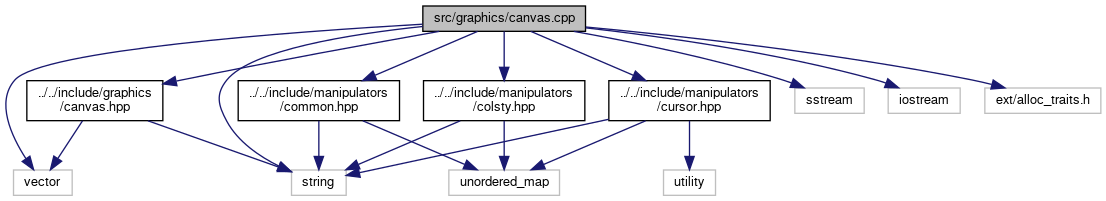
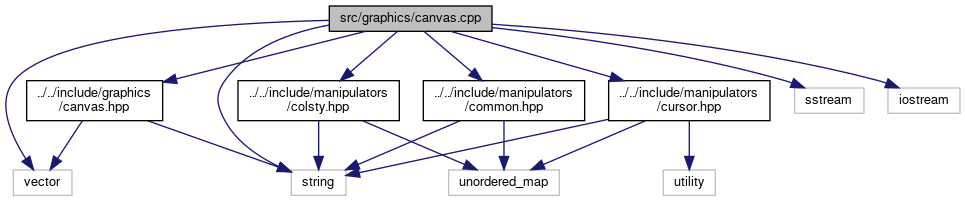
Update docs

diff --git a/docs/canvas_8hpp_source.html b/docs/canvas_8hpp_source.html
@@ -174,25 +174,25 @@ $(function() {
 <div class="line"><a name="l00115"></a><span class="lineno">  115</span>&#160; </div>
 <div class="line"><a name="l00116"></a><span class="lineno">  116</span>&#160;<span class="preprocessor">#endif</span></div>
 <div class="ttc" id="aclassosm_1_1Canvas_html"><div class="ttname"><a href="classosm_1_1Canvas.html">osm::Canvas</a></div><div class="ttdoc">Instances of this class are used to draw in a limited 2D space. All the functions that modify the can...</div><div class="ttdef"><b>Definition:</b> canvas.hpp:53</div></div>
-<div class="ttc" id="aclassosm_1_1Canvas_html_a1505bf52113de81e87ba3f69d5c2a188"><div class="ttname"><a href="classosm_1_1Canvas.html#a1505bf52113de81e87ba3f69d5c2a188">osm::Canvas::clear</a></div><div class="ttdeci">void clear()</div><div class="ttdoc">Fill the canvas with the background.</div><div class="ttdef"><b>Definition:</b> canvas.cpp:205</div></div>
-<div class="ttc" id="aclassosm_1_1Canvas_html_a160b7ab568f9d747342fbc3665693328"><div class="ttname"><a href="classosm_1_1Canvas.html#a160b7ab568f9d747342fbc3665693328">osm::Canvas::getWidth</a></div><div class="ttdeci">unsigned int getWidth() const</div><div class="ttdoc">Get the width of the canvas.</div><div class="ttdef"><b>Definition:</b> canvas.cpp:115</div></div>
-<div class="ttc" id="aclassosm_1_1Canvas_html_a1ee33493bd60a97fa187a5459ed0b03d"><div class="ttname"><a href="classosm_1_1Canvas.html#a1ee33493bd60a97fa187a5459ed0b03d">osm::Canvas::getBackgroundFeat</a></div><div class="ttdeci">std::string getBackgroundFeat() const</div><div class="ttdoc">Get the optional feat of the background.</div><div class="ttdef"><b>Definition:</b> canvas.cpp:148</div></div>
-<div class="ttc" id="aclassosm_1_1Canvas_html_a480b5c831444690c33c431e49b8c5f7b"><div class="ttname"><a href="classosm_1_1Canvas.html#a480b5c831444690c33c431e49b8c5f7b">osm::Canvas::getFrameFeat</a></div><div class="ttdeci">std::string getFrameFeat() const</div><div class="ttdoc">Get the frame feature (if set).</div><div class="ttdef"><b>Definition:</b> canvas.cpp:159</div></div>
-<div class="ttc" id="aclassosm_1_1Canvas_html_a490058618fdbfae70ad9ccdbe714ed2d"><div class="ttname"><a href="classosm_1_1Canvas.html#a490058618fdbfae70ad9ccdbe714ed2d">osm::Canvas::put</a></div><div class="ttdeci">void put(unsigned int x, unsigned int y, char c, const std::string &amp;feat=&quot;&quot;)</div><div class="ttdoc">Put a character in the canvas, given its coordinates and an optional feat. An out-of-bounds exception...</div><div class="ttdef"><b>Definition:</b> canvas.cpp:220</div></div>
-<div class="ttc" id="aclassosm_1_1Canvas_html_a5a93403f14648c98a13050adfabc6e73"><div class="ttname"><a href="classosm_1_1Canvas.html#a5a93403f14648c98a13050adfabc6e73">osm::Canvas::setFrame</a></div><div class="ttdeci">void setFrame(FrameStyle, const std::string &amp;feat=&quot;&quot;)</div><div class="ttdoc">Set the FrameStyle of the canvas and an optional feat.</div><div class="ttdef"><b>Definition:</b> canvas.cpp:75</div></div>
-<div class="ttc" id="aclassosm_1_1Canvas_html_a74a7d22b68e900010b2c5cdc530351b8"><div class="ttname"><a href="classosm_1_1Canvas.html#a74a7d22b68e900010b2c5cdc530351b8">osm::Canvas::getHeight</a></div><div class="ttdeci">unsigned int getHeight() const</div><div class="ttdoc">Get the height of the canvas.</div><div class="ttdef"><b>Definition:</b> canvas.cpp:126</div></div>
-<div class="ttc" id="aclassosm_1_1Canvas_html_a7bd6a767d15497e639e9c768a0a5fe23"><div class="ttname"><a href="classosm_1_1Canvas.html#a7bd6a767d15497e639e9c768a0a5fe23">osm::Canvas::isFrameEnabled</a></div><div class="ttdeci">bool isFrameEnabled() const</div><div class="ttdoc">Return True if the frame is enabled. Otherwise return False.</div><div class="ttdef"><b>Definition:</b> canvas.cpp:196</div></div>
+<div class="ttc" id="aclassosm_1_1Canvas_html_a1505bf52113de81e87ba3f69d5c2a188"><div class="ttname"><a href="classosm_1_1Canvas.html#a1505bf52113de81e87ba3f69d5c2a188">osm::Canvas::clear</a></div><div class="ttdeci">void clear()</div><div class="ttdoc">Fill the canvas with the background.</div><div class="ttdef"><b>Definition:</b> canvas.cpp:204</div></div>
+<div class="ttc" id="aclassosm_1_1Canvas_html_a160b7ab568f9d747342fbc3665693328"><div class="ttname"><a href="classosm_1_1Canvas.html#a160b7ab568f9d747342fbc3665693328">osm::Canvas::getWidth</a></div><div class="ttdeci">unsigned int getWidth() const</div><div class="ttdoc">Get the width of the canvas.</div><div class="ttdef"><b>Definition:</b> canvas.cpp:114</div></div>
+<div class="ttc" id="aclassosm_1_1Canvas_html_a1ee33493bd60a97fa187a5459ed0b03d"><div class="ttname"><a href="classosm_1_1Canvas.html#a1ee33493bd60a97fa187a5459ed0b03d">osm::Canvas::getBackgroundFeat</a></div><div class="ttdeci">std::string getBackgroundFeat() const</div><div class="ttdoc">Get the optional feat of the background.</div><div class="ttdef"><b>Definition:</b> canvas.cpp:147</div></div>
+<div class="ttc" id="aclassosm_1_1Canvas_html_a480b5c831444690c33c431e49b8c5f7b"><div class="ttname"><a href="classosm_1_1Canvas.html#a480b5c831444690c33c431e49b8c5f7b">osm::Canvas::getFrameFeat</a></div><div class="ttdeci">std::string getFrameFeat() const</div><div class="ttdoc">Get the frame feature (if set).</div><div class="ttdef"><b>Definition:</b> canvas.cpp:158</div></div>
+<div class="ttc" id="aclassosm_1_1Canvas_html_a490058618fdbfae70ad9ccdbe714ed2d"><div class="ttname"><a href="classosm_1_1Canvas.html#a490058618fdbfae70ad9ccdbe714ed2d">osm::Canvas::put</a></div><div class="ttdeci">void put(unsigned int x, unsigned int y, char c, const std::string &amp;feat=&quot;&quot;)</div><div class="ttdoc">Put a character in the canvas, given its coordinates and an optional feat. An out-of-bounds exception...</div><div class="ttdef"><b>Definition:</b> canvas.cpp:219</div></div>
+<div class="ttc" id="aclassosm_1_1Canvas_html_a5a93403f14648c98a13050adfabc6e73"><div class="ttname"><a href="classosm_1_1Canvas.html#a5a93403f14648c98a13050adfabc6e73">osm::Canvas::setFrame</a></div><div class="ttdeci">void setFrame(FrameStyle, const std::string &amp;feat=&quot;&quot;)</div><div class="ttdoc">Set the FrameStyle of the canvas and an optional feat.</div><div class="ttdef"><b>Definition:</b> canvas.cpp:74</div></div>
+<div class="ttc" id="aclassosm_1_1Canvas_html_a74a7d22b68e900010b2c5cdc530351b8"><div class="ttname"><a href="classosm_1_1Canvas.html#a74a7d22b68e900010b2c5cdc530351b8">osm::Canvas::getHeight</a></div><div class="ttdeci">unsigned int getHeight() const</div><div class="ttdoc">Get the height of the canvas.</div><div class="ttdef"><b>Definition:</b> canvas.cpp:125</div></div>
+<div class="ttc" id="aclassosm_1_1Canvas_html_a7bd6a767d15497e639e9c768a0a5fe23"><div class="ttname"><a href="classosm_1_1Canvas.html#a7bd6a767d15497e639e9c768a0a5fe23">osm::Canvas::isFrameEnabled</a></div><div class="ttdeci">bool isFrameEnabled() const</div><div class="ttdoc">Return True if the frame is enabled. Otherwise return False.</div><div class="ttdef"><b>Definition:</b> canvas.cpp:195</div></div>
 <div class="ttc" id="aclassosm_1_1Canvas_html_a913ed31d4d9273929d5c743c708a655f"><div class="ttname"><a href="classosm_1_1Canvas.html#a913ed31d4d9273929d5c743c708a655f">osm::Canvas::height_</a></div><div class="ttdeci">unsigned int height_</div><div class="ttdef"><b>Definition:</b> canvas.hpp:112</div></div>
-<div class="ttc" id="aclassosm_1_1Canvas_html_a95044b9f98d159e46b37d337ec05ae1d"><div class="ttname"><a href="classosm_1_1Canvas.html#a95044b9f98d159e46b37d337ec05ae1d">osm::Canvas::enableFrame</a></div><div class="ttdeci">void enableFrame(bool frame_enabled)</div><div class="ttdoc">Flag to frame or not the canvas. The frame doesn't increase the size taken by the canvas....</div><div class="ttdef"><b>Definition:</b> canvas.cpp:185</div></div>
-<div class="ttc" id="aclassosm_1_1Canvas_html_a9c13a2253b8f966713a43193ec9d02d4"><div class="ttname"><a href="classosm_1_1Canvas.html#a9c13a2253b8f966713a43193ec9d02d4">osm::Canvas::getBackground</a></div><div class="ttdeci">char getBackground() const</div><div class="ttdoc">Get the char that fills the background.</div><div class="ttdef"><b>Definition:</b> canvas.cpp:137</div></div>
-<div class="ttc" id="aclassosm_1_1Canvas_html_aac79ef1ec3e0b734cd8119d261073bfb"><div class="ttname"><a href="classosm_1_1Canvas.html#aac79ef1ec3e0b734cd8119d261073bfb">osm::Canvas::getFrameStyle</a></div><div class="ttdeci">FrameStyle getFrameStyle() const</div><div class="ttdoc">Get the frame style.</div><div class="ttdef"><b>Definition:</b> canvas.cpp:170</div></div>
-<div class="ttc" id="aclassosm_1_1Canvas_html_abce191d8ced93b66b6c419fa25e1ba0c"><div class="ttname"><a href="classosm_1_1Canvas.html#abce191d8ced93b66b6c419fa25e1ba0c">osm::Canvas::Canvas</a></div><div class="ttdeci">Canvas(unsigned int width, unsigned int height)</div><div class="ttdoc">Construct a new Canvas:: Canvas object. The size of the canvas in characters must be specified upon c...</div><div class="ttdef"><b>Definition:</b> canvas.cpp:41</div></div>
-<div class="ttc" id="aclassosm_1_1Canvas_html_ac097db26c317351fe292ae23484051c2"><div class="ttname"><a href="classosm_1_1Canvas.html#ac097db26c317351fe292ae23484051c2">osm::Canvas::setWidth</a></div><div class="ttdeci">void setWidth(unsigned int width)</div><div class="ttdoc">Set the width of the canvas.</div><div class="ttdef"><b>Definition:</b> canvas.cpp:87</div></div>
-<div class="ttc" id="aclassosm_1_1Canvas_html_ad4691efdc35f471f6b540b9b82ff8a47"><div class="ttname"><a href="classosm_1_1Canvas.html#ad4691efdc35f471f6b540b9b82ff8a47">osm::Canvas::refresh</a></div><div class="ttdeci">void refresh()</div><div class="ttdoc">Display the canvas in the console.</div><div class="ttdef"><b>Definition:</b> canvas.cpp:230</div></div>
+<div class="ttc" id="aclassosm_1_1Canvas_html_a95044b9f98d159e46b37d337ec05ae1d"><div class="ttname"><a href="classosm_1_1Canvas.html#a95044b9f98d159e46b37d337ec05ae1d">osm::Canvas::enableFrame</a></div><div class="ttdeci">void enableFrame(bool frame_enabled)</div><div class="ttdoc">Flag to frame or not the canvas. The frame doesn't increase the size taken by the canvas....</div><div class="ttdef"><b>Definition:</b> canvas.cpp:184</div></div>
+<div class="ttc" id="aclassosm_1_1Canvas_html_a9c13a2253b8f966713a43193ec9d02d4"><div class="ttname"><a href="classosm_1_1Canvas.html#a9c13a2253b8f966713a43193ec9d02d4">osm::Canvas::getBackground</a></div><div class="ttdeci">char getBackground() const</div><div class="ttdoc">Get the char that fills the background.</div><div class="ttdef"><b>Definition:</b> canvas.cpp:136</div></div>
+<div class="ttc" id="aclassosm_1_1Canvas_html_aac79ef1ec3e0b734cd8119d261073bfb"><div class="ttname"><a href="classosm_1_1Canvas.html#aac79ef1ec3e0b734cd8119d261073bfb">osm::Canvas::getFrameStyle</a></div><div class="ttdeci">FrameStyle getFrameStyle() const</div><div class="ttdoc">Get the frame style.</div><div class="ttdef"><b>Definition:</b> canvas.cpp:169</div></div>
+<div class="ttc" id="aclassosm_1_1Canvas_html_abce191d8ced93b66b6c419fa25e1ba0c"><div class="ttname"><a href="classosm_1_1Canvas.html#abce191d8ced93b66b6c419fa25e1ba0c">osm::Canvas::Canvas</a></div><div class="ttdeci">Canvas(unsigned int width, unsigned int height)</div><div class="ttdoc">Construct a new Canvas:: Canvas object. The size of the canvas in characters must be specified upon c...</div><div class="ttdef"><b>Definition:</b> canvas.cpp:40</div></div>
+<div class="ttc" id="aclassosm_1_1Canvas_html_ac097db26c317351fe292ae23484051c2"><div class="ttname"><a href="classosm_1_1Canvas.html#ac097db26c317351fe292ae23484051c2">osm::Canvas::setWidth</a></div><div class="ttdeci">void setWidth(unsigned int width)</div><div class="ttdoc">Set the width of the canvas.</div><div class="ttdef"><b>Definition:</b> canvas.cpp:86</div></div>
+<div class="ttc" id="aclassosm_1_1Canvas_html_ad4691efdc35f471f6b540b9b82ff8a47"><div class="ttname"><a href="classosm_1_1Canvas.html#ad4691efdc35f471f6b540b9b82ff8a47">osm::Canvas::refresh</a></div><div class="ttdeci">void refresh()</div><div class="ttdoc">Display the canvas in the console.</div><div class="ttdef"><b>Definition:</b> canvas.cpp:229</div></div>
 <div class="ttc" id="aclassosm_1_1Canvas_html_ad8f6fc9357a937cba09c8be48007e220"><div class="ttname"><a href="classosm_1_1Canvas.html#ad8f6fc9357a937cba09c8be48007e220">osm::Canvas::width_</a></div><div class="ttdeci">unsigned int width_</div><div class="ttdef"><b>Definition:</b> canvas.hpp:112</div></div>
-<div class="ttc" id="aclassosm_1_1Canvas_html_ad9597694bff029c0743c80b532f2dd8b"><div class="ttname"><a href="classosm_1_1Canvas.html#ad9597694bff029c0743c80b532f2dd8b">osm::Canvas::setHeight</a></div><div class="ttdeci">void setHeight(unsigned int height)</div><div class="ttdoc">Set the height of the canvas.</div><div class="ttdef"><b>Definition:</b> canvas.cpp:99</div></div>
-<div class="ttc" id="aclassosm_1_1Canvas_html_adc7706435633a346f755a9d23ca009ca"><div class="ttname"><a href="classosm_1_1Canvas.html#adc7706435633a346f755a9d23ca009ca">osm::Canvas::setBackground</a></div><div class="ttdeci">void setBackground(char c, const std::string &amp;feat=&quot;&quot;)</div><div class="ttdoc">Set the char that fills the background and an optional feat.</div><div class="ttdef"><b>Definition:</b> canvas.cpp:58</div></div>
-<div class="ttc" id="anamespaceosm_html"><div class="ttname"><a href="namespaceosm.html">osm</a></div><div class="ttdef"><b>Definition:</b> canvas.cpp:29</div></div>
+<div class="ttc" id="aclassosm_1_1Canvas_html_ad9597694bff029c0743c80b532f2dd8b"><div class="ttname"><a href="classosm_1_1Canvas.html#ad9597694bff029c0743c80b532f2dd8b">osm::Canvas::setHeight</a></div><div class="ttdeci">void setHeight(unsigned int height)</div><div class="ttdoc">Set the height of the canvas.</div><div class="ttdef"><b>Definition:</b> canvas.cpp:98</div></div>
+<div class="ttc" id="aclassosm_1_1Canvas_html_adc7706435633a346f755a9d23ca009ca"><div class="ttname"><a href="classosm_1_1Canvas.html#adc7706435633a346f755a9d23ca009ca">osm::Canvas::setBackground</a></div><div class="ttdeci">void setBackground(char c, const std::string &amp;feat=&quot;&quot;)</div><div class="ttdoc">Set the char that fills the background and an optional feat.</div><div class="ttdef"><b>Definition:</b> canvas.cpp:57</div></div>
+<div class="ttc" id="anamespaceosm_html"><div class="ttname"><a href="namespaceosm.html">osm</a></div><div class="ttdef"><b>Definition:</b> canvas.cpp:28</div></div>
 <div class="ttc" id="anamespaceosm_html_a8764c3774efea820941d8dc1fed23e39"><div class="ttname"><a href="namespaceosm.html#a8764c3774efea820941d8dc1fed23e39">osm::FrameStyle</a></div><div class="ttdeci">FrameStyle</div><div class="ttdoc">Enum class used to define the frame style.</div><div class="ttdef"><b>Definition:</b> canvas.hpp:37</div></div>
 <div class="ttc" id="anamespaceosm_html_a8764c3774efea820941d8dc1fed23e39a61ce815d946c1f4d84feaf7aff3ba9b9"><div class="ttname"><a href="namespaceosm.html#a8764c3774efea820941d8dc1fed23e39a61ce815d946c1f4d84feaf7aff3ba9b9">osm::ASCII</a></div><div class="ttdeci">@ ASCII</div><div class="ttdef"><b>Definition:</b> canvas.hpp:39</div></div>
 <div class="ttc" id="anamespaceosm_html_a8764c3774efea820941d8dc1fed23e39ab9dcdd42eb8789ebcd94e7e083d08f9c"><div class="ttname"><a href="namespaceosm.html#a8764c3774efea820941d8dc1fed23e39ab9dcdd42eb8789ebcd94e7e083d08f9c">osm::EMPTY</a></div><div class="ttdeci">@ EMPTY</div><div class="ttdef"><b>Definition:</b> canvas.hpp:38</div></div>

diff --git a/docs/plot__2D_8hpp_source.html b/docs/plot__2D_8hpp_source.html
@@ -151,7 +151,7 @@ $(function() {
 <div class="line"><a name="l00098"></a><span class="lineno">   98</span>&#160; </div>
 <div class="line"><a name="l00099"></a><span class="lineno">   99</span>&#160;<span class="preprocessor">#endif</span></div>
 <div class="ttc" id="aclassosm_1_1Canvas_html"><div class="ttname"><a href="classosm_1_1Canvas.html">osm::Canvas</a></div><div class="ttdoc">Instances of this class are used to draw in a limited 2D space. All the functions that modify the can...</div><div class="ttdef"><b>Definition:</b> canvas.hpp:53</div></div>
-<div class="ttc" id="aclassosm_1_1Canvas_html_a490058618fdbfae70ad9ccdbe714ed2d"><div class="ttname"><a href="classosm_1_1Canvas.html#a490058618fdbfae70ad9ccdbe714ed2d">osm::Canvas::put</a></div><div class="ttdeci">void put(unsigned int x, unsigned int y, char c, const std::string &amp;feat=&quot;&quot;)</div><div class="ttdoc">Put a character in the canvas, given its coordinates and an optional feat. An out-of-bounds exception...</div><div class="ttdef"><b>Definition:</b> canvas.cpp:220</div></div>
+<div class="ttc" id="aclassosm_1_1Canvas_html_a490058618fdbfae70ad9ccdbe714ed2d"><div class="ttname"><a href="classosm_1_1Canvas.html#a490058618fdbfae70ad9ccdbe714ed2d">osm::Canvas::put</a></div><div class="ttdeci">void put(unsigned int x, unsigned int y, char c, const std::string &amp;feat=&quot;&quot;)</div><div class="ttdoc">Put a character in the canvas, given its coordinates and an optional feat. An out-of-bounds exception...</div><div class="ttdef"><b>Definition:</b> canvas.cpp:219</div></div>
 <div class="ttc" id="aclassosm_1_1Canvas_html_a913ed31d4d9273929d5c743c708a655f"><div class="ttname"><a href="classosm_1_1Canvas.html#a913ed31d4d9273929d5c743c708a655f">osm::Canvas::height_</a></div><div class="ttdeci">unsigned int height_</div><div class="ttdef"><b>Definition:</b> canvas.hpp:112</div></div>
 <div class="ttc" id="aclassosm_1_1Canvas_html_ad8f6fc9357a937cba09c8be48007e220"><div class="ttname"><a href="classosm_1_1Canvas.html#ad8f6fc9357a937cba09c8be48007e220">osm::Canvas::width_</a></div><div class="ttdeci">unsigned int width_</div><div class="ttdef"><b>Definition:</b> canvas.hpp:112</div></div>
 <div class="ttc" id="aclassosm_1_1Plot2DCanvas_html"><div class="ttname"><a href="classosm_1_1Plot2DCanvas.html">osm::Plot2DCanvas</a></div><div class="ttdoc">This class is used to plot mathematical functions R -&gt; R. In addition to all the properties of a basi...</div><div class="ttdef"><b>Definition:</b> plot_2D.hpp:42</div></div>
@@ -163,7 +163,7 @@ $(function() {
 <div class="ttc" id="aclassosm_1_1Plot2DCanvas_html_ab256fb6794df21529480f0edb9e16001"><div class="ttname"><a href="classosm_1_1Plot2DCanvas.html#ab256fb6794df21529480f0edb9e16001">osm::Plot2DCanvas::setScale</a></div><div class="ttdeci">void setScale(float xScale, float yScale)</div><div class="ttdoc">Set the scale_x and scale_y of the canvas.</div><div class="ttdef"><b>Definition:</b> plot_2D.cpp:65</div></div>
 <div class="ttc" id="aclassosm_1_1Plot2DCanvas_html_ad4ecb6faa34f6cef0a0120ac484c5d5b"><div class="ttname"><a href="classosm_1_1Plot2DCanvas.html#ad4ecb6faa34f6cef0a0120ac484c5d5b">osm::Plot2DCanvas::getScaleX</a></div><div class="ttdeci">float getScaleX() const</div><div class="ttdoc">Get the scale_x of the canvas.</div><div class="ttdef"><b>Definition:</b> plot_2D.cpp:103</div></div>
 <div class="ttc" id="aclassosm_1_1Plot2DCanvas_html_af5fbf005d04fcd46f20533bffe8ae7ab"><div class="ttname"><a href="classosm_1_1Plot2DCanvas.html#af5fbf005d04fcd46f20533bffe8ae7ab">osm::Plot2DCanvas::draw</a></div><div class="ttdeci">void draw(std::function&lt; Y(X)&gt; function, char c, const std::string &amp;feat=&quot;&quot;)</div><div class="ttdoc">Plot a function that receives an argument of a numeric type X and returns a numeric value of type Y....</div><div class="ttdef"><b>Definition:</b> plot_2D.hpp:79</div></div>
-<div class="ttc" id="anamespaceosm_html"><div class="ttname"><a href="namespaceosm.html">osm</a></div><div class="ttdef"><b>Definition:</b> canvas.cpp:29</div></div>
+<div class="ttc" id="anamespaceosm_html"><div class="ttname"><a href="namespaceosm.html">osm</a></div><div class="ttdef"><b>Definition:</b> canvas.cpp:28</div></div>
 <div class="ttc" id="anamespaceosm_html_ae7a38e64cf69c6449e10cb4ec035192a"><div class="ttname"><a href="namespaceosm.html#ae7a38e64cf69c6449e10cb4ec035192a">osm::feat</a></div><div class="ttdeci">const std::string &amp; feat(const std::unordered_map&lt; std::string, std::string &gt; &amp;generic_map, const std::string &amp;feat_string)</div><div class="ttdoc">It takes an std::map object as the first argument and an std::string object (map key) as the second a...</div><div class="ttdef"><b>Definition:</b> common.cpp:40</div></div>
 </div><!-- fragment --></div><!-- contents -->
 <!-- start footer part -->

diff --git a/docs/multi__progress__bar_8hpp_source.html b/docs/multi__progress__bar_8hpp_source.html
@@ -253,7 +253,7 @@ $(function() {
 <div class="ttc" id="aclassosm_1_1make__MultiProgressBar_html_abab6d301f7884712b79d615f1b5c5b89"><div class="ttname"><a href="classosm_1_1make__MultiProgressBar.html#abab6d301f7884712b79d615f1b5c5b89">osm::make_MultiProgressBar::for_each</a></div><div class="ttdeci">void for_each(Func &amp;&amp;func, Args &amp;&amp;... args)</div><div class="ttdoc">Method used to update progress bars simultaneously.</div><div class="ttdef"><b>Definition:</b> multi_progress_bar.hpp:136</div></div>
 <div class="ttc" id="aclassosm_1_1make__MultiProgressBar_html_ac04d446fcdfcb4fa6f3c9125c144e1d0"><div class="ttname"><a href="classosm_1_1make__MultiProgressBar.html#ac04d446fcdfcb4fa6f3c9125c144e1d0">osm::make_MultiProgressBar::size</a></div><div class="ttdeci">static size_t size()</div><div class="ttdoc">Return the number of the indicators.</div><div class="ttdef"><b>Definition:</b> multi_progress_bar.hpp:108</div></div>
 <div class="ttc" id="aclassosm_1_1make__MultiProgressBar_html_af5b337ea3c0f357bcccc6fdaa1dcf167"><div class="ttname"><a href="classosm_1_1make__MultiProgressBar.html#af5b337ea3c0f357bcccc6fdaa1dcf167">osm::make_MultiProgressBar::for_one</a></div><div class="ttdeci">void for_one(size_t idx, Func &amp;&amp;func, Args &amp;&amp;... args)</div><div class="ttdoc">Method used to update the progress bar for one progress bar only.</div><div class="ttdef"><b>Definition:</b> multi_progress_bar.hpp:121</div></div>
-<div class="ttc" id="anamespaceosm_html"><div class="ttname"><a href="namespaceosm.html">osm</a></div><div class="ttdef"><b>Definition:</b> canvas.cpp:29</div></div>
+<div class="ttc" id="anamespaceosm_html"><div class="ttname"><a href="namespaceosm.html">osm</a></div><div class="ttdef"><b>Definition:</b> canvas.cpp:28</div></div>
 <div class="ttc" id="anamespaceosm_html_a075383a0e8d513f82c078daee8eee31e"><div class="ttname"><a href="namespaceosm.html#a075383a0e8d513f82c078daee8eee31e">osm::MultiProgressBar</a></div><div class="ttdeci">make_MultiProgressBar&lt; typename std::remove_reference&lt; Indicators &gt;::type... &gt; MultiProgressBar(Indicators &amp;&amp;... inds)</div><div class="ttdoc">Helper function used for deduction guides.</div><div class="ttdef"><b>Definition:</b> multi_progress_bar.hpp:228</div></div>
 <div class="ttc" id="anamespaceosm_html_adbcc39535554329cee231dc3dd33ffd3"><div class="ttname"><a href="namespaceosm.html#adbcc39535554329cee231dc3dd33ffd3">osm::crs</a></div><div class="ttdeci">const string_pair_map crs</div><div class="ttdoc">It is used to store the cursor commands.</div><div class="ttdef"><b>Definition:</b> cursor.cpp:41</div></div>
 <div class="ttc" id="anamespaceosm_html_ae7a38e64cf69c6449e10cb4ec035192a"><div class="ttname"><a href="namespaceosm.html#ae7a38e64cf69c6449e10cb4ec035192a">osm::feat</a></div><div class="ttdeci">const std::string &amp; feat(const std::unordered_map&lt; std::string, std::string &gt; &amp;generic_map, const std::string &amp;feat_string)</div><div class="ttdoc">It takes an std::map object as the first argument and an std::string object (map key) as the second a...</div><div class="ttdef"><b>Definition:</b> common.cpp:40</div></div>

diff --git a/docs/progress__bar_8hpp_source.html b/docs/progress__bar_8hpp_source.html
@@ -671,7 +671,7 @@ $(function() {
 <div class="ttc" id="aclassosm_1_1ProgressBar_html_af16bdec724cd65d3d47b013213d79334"><div class="ttname"><a href="classosm_1_1ProgressBar.html#af16bdec724cd65d3d47b013213d79334">osm::ProgressBar::setStyle</a></div><div class="ttdeci">void setStyle(const std::string &amp;type, const std::string &amp;style_p, const std::string &amp;style_l)</div><div class="ttdoc">Set the style of the complete ProgressBar. Available: &quot;indicator&quot; (&quot;%&quot;, &quot;/100&quot;), &quot;loader&quot; (&quot;#&quot;,...</div><div class="ttdef"><b>Definition:</b> progress_bar.hpp:187</div></div>
 <div class="ttc" id="aclassosm_1_1ProgressBar_html_af56b979a3e98ade5c590eff50920bdbe"><div class="ttname"><a href="classosm_1_1ProgressBar.html#af56b979a3e98ade5c590eff50920bdbe">osm::ProgressBar::getColor</a></div><div class="ttdeci">std::string getColor() const</div><div class="ttdoc">Get the ProgressBar color variable.</div><div class="ttdef"><b>Definition:</b> progress_bar.hpp:540</div></div>
 <div class="ttc" id="aclassosm_1_1ProgressBar_html_afd43e6063ab9c24abb24e776f32cc34d"><div class="ttname"><a href="classosm_1_1ProgressBar.html#afd43e6063ab9c24abb24e776f32cc34d">osm::ProgressBar::resetMax</a></div><div class="ttdeci">void resetMax()</div><div class="ttdoc">Reset the ProgressBar Max variable.</div><div class="ttdef"><b>Definition:</b> progress_bar.hpp:319</div></div>
-<div class="ttc" id="anamespaceosm_html"><div class="ttname"><a href="namespaceosm.html">osm</a></div><div class="ttdef"><b>Definition:</b> canvas.cpp:29</div></div>
+<div class="ttc" id="anamespaceosm_html"><div class="ttname"><a href="namespaceosm.html">osm</a></div><div class="ttdef"><b>Definition:</b> canvas.cpp:28</div></div>
 <div class="ttc" id="anamespaceosm_html_a0e4c43da6b860f7b739d6dd226b97858"><div class="ttname"><a href="namespaceosm.html#a0e4c43da6b860f7b739d6dd226b97858">osm::operator&lt;&lt;</a></div><div class="ttdeci">std::ostream &amp; operator&lt;&lt;(Decorator my_shell, const T &amp;elem)</div><div class="ttdoc">Operator overload to output a modified ostream object which properties are set thanks to the Decorato...</div><div class="ttdef"><b>Definition:</b> decorator.hpp:105</div></div>
 <div class="ttc" id="anamespaceosm_html_a12c9bec9ac0ae5f9182aa7a0d3cce897"><div class="ttname"><a href="namespaceosm.html#a12c9bec9ac0ae5f9182aa7a0d3cce897">osm::steady_clock</a></div><div class="ttdeci">std::chrono::steady_clock steady_clock</div><div class="ttdef"><b>Definition:</b> progress_bar.hpp:52</div></div>
 <div class="ttc" id="anamespaceosm_html_a37229958162bef1ddaf89b5dfcf300c1"><div class="ttname"><a href="namespaceosm.html#a37229958162bef1ddaf89b5dfcf300c1">osm::string_set_map</a></div><div class="ttdeci">std::unordered_map&lt; std::string, std::unordered_set&lt; std::string &gt; &gt; string_set_map</div><div class="ttdef"><b>Definition:</b> progress_bar.hpp:51</div></div>

diff --git a/docs/decorator_8hpp_source.html b/docs/decorator_8hpp_source.html
@@ -194,7 +194,7 @@ $(function() {
 <div class="ttc" id="aclassosm_1_1Decorator_html_ada70a910ae675e7a5fbf030b33bd0932"><div class="ttname"><a href="classosm_1_1Decorator.html#ada70a910ae675e7a5fbf030b33bd0932">osm::Decorator::getStyle</a></div><div class="ttdeci">std::string getStyle(std::ostream &amp;os=std::cout)</div><div class="ttdoc">Method used to return the selected style of a stream.</div><div class="ttdef"><b>Definition:</b> decorator.cpp:159</div></div>
 <div class="ttc" id="acolsty_8hpp_html"><div class="ttname"><a href="colsty_8hpp.html">colsty.hpp</a></div></div>
 <div class="ttc" id="acommon_8hpp_html"><div class="ttname"><a href="common_8hpp.html">common.hpp</a></div></div>
-<div class="ttc" id="anamespaceosm_html"><div class="ttname"><a href="namespaceosm.html">osm</a></div><div class="ttdef"><b>Definition:</b> canvas.cpp:29</div></div>
+<div class="ttc" id="anamespaceosm_html"><div class="ttname"><a href="namespaceosm.html">osm</a></div><div class="ttdef"><b>Definition:</b> canvas.cpp:28</div></div>
 <div class="ttc" id="anamespaceosm_html_a0e4c43da6b860f7b739d6dd226b97858"><div class="ttname"><a href="namespaceosm.html#a0e4c43da6b860f7b739d6dd226b97858">osm::operator&lt;&lt;</a></div><div class="ttdeci">std::ostream &amp; operator&lt;&lt;(Decorator my_shell, const T &amp;elem)</div><div class="ttdoc">Operator overload to output a modified ostream object which properties are set thanks to the Decorato...</div><div class="ttdef"><b>Definition:</b> decorator.hpp:105</div></div>
 <div class="ttc" id="anamespaceosm_html_a4cefaf71da9e5b1e2746189dee3cd24c"><div class="ttname"><a href="namespaceosm.html#a4cefaf71da9e5b1e2746189dee3cd24c">osm::rst</a></div><div class="ttdeci">const std::unordered_map&lt; std::string, std::string &gt; rst</div><div class="ttdoc">It is used to store the reset features commands.</div><div class="ttdef"><b>Definition:</b> colsty.cpp:115</div></div>
 <div class="ttc" id="anamespaceosm_html_a5c3de8caf875adb236937ea7f60f74b0"><div class="ttname"><a href="namespaceosm.html#a5c3de8caf875adb236937ea7f60f74b0">osm::sty</a></div><div class="ttdeci">const std::unordered_map&lt; std::string, std::string &gt; sty</div><div class="ttdoc">It is used to store the styles.</div><div class="ttdef"><b>Definition:</b> colsty.cpp:93</div></div>

diff --git a/docs/canvas_8cpp.html b/docs/canvas_8cpp.html
@@ -81,24 +81,22 @@ $(function() {
 <code>#include &lt;iostream&gt;</code><br />
 <code>#include &lt;vector&gt;</code><br />
 <code>#include &lt;string&gt;</code><br />
-<code>#include &lt;ext/alloc_traits.h&gt;</code><br />
 </div><div class="textblock"><div class="dynheader">
 Include dependency graph for canvas.cpp:</div>
 <div class="dyncontent">
 <div class="center"><img src="canvas_8cpp__incl.png" border="0" usemap="#asrc_2graphics_2canvas_8cpp" alt=""/></div>
 <map name="asrc_2graphics_2canvas_8cpp" id="asrc_2graphics_2canvas_8cpp">
-<area shape="rect" title=" " alt="" coords="423,5,586,32"/>
+<area shape="rect" title=" " alt="" coords="329,5,492,32"/>
 <area shape="rect" href="canvas_8hpp.html" title=" " alt="" coords="27,80,163,121"/>
-<area shape="rect" title=" " alt="" coords="14,169,72,196"/>
-<area shape="rect" title=" " alt="" coords="292,169,346,196"/>
+<area shape="rect" title=" " alt="" coords="13,169,72,196"/>
+<area shape="rect" title=" " alt="" coords="291,169,346,196"/>
 <area shape="rect" href="cursor_8hpp.html" title=" " alt="" coords="609,80,770,121"/>
-<area shape="rect" href="colsty_8hpp.html" title=" " alt="" coords="424,80,585,121"/>
-<area shape="rect" href="common_8hpp.html" title=" " alt="" coords="238,80,400,121"/>
+<area shape="rect" href="colsty_8hpp.html" title=" " alt="" coords="238,80,399,121"/>
+<area shape="rect" href="common_8hpp.html" title=" " alt="" coords="423,80,585,121"/>
 <area shape="rect" title=" " alt="" coords="795,87,864,114"/>
 <area shape="rect" title=" " alt="" coords="888,87,960,114"/>
-<area shape="rect" title=" " alt="" coords="985,87,1101,114"/>
-<area shape="rect" title=" " alt="" coords="449,169,560,196"/>
-<area shape="rect" title=" " alt="" coords="664,169,716,196"/>
+<area shape="rect" title=" " alt="" coords="449,169,559,196"/>
+<area shape="rect" title=" " alt="" coords="663,169,715,196"/>
 </map>
 </div>
 </div><table class="memberdecls">

diff --git a/docs/colsty_8hpp_source.html b/docs/colsty_8hpp_source.html
@@ -103,7 +103,7 @@ $(function() {
 <div class="line"><a name="l00037"></a><span class="lineno">   37</span>&#160; }</div>
 <div class="line"><a name="l00038"></a><span class="lineno">   38</span>&#160; </div>
 <div class="line"><a name="l00039"></a><span class="lineno">   39</span>&#160;<span class="preprocessor">#endif</span></div>
-<div class="ttc" id="anamespaceosm_html"><div class="ttname"><a href="namespaceosm.html">osm</a></div><div class="ttdef"><b>Definition:</b> canvas.cpp:29</div></div>
+<div class="ttc" id="anamespaceosm_html"><div class="ttname"><a href="namespaceosm.html">osm</a></div><div class="ttdef"><b>Definition:</b> canvas.cpp:28</div></div>
 <div class="ttc" id="anamespaceosm_html_a4cefaf71da9e5b1e2746189dee3cd24c"><div class="ttname"><a href="namespaceosm.html#a4cefaf71da9e5b1e2746189dee3cd24c">osm::rst</a></div><div class="ttdeci">const std::unordered_map&lt; std::string, std::string &gt; rst</div><div class="ttdoc">It is used to store the reset features commands.</div><div class="ttdef"><b>Definition:</b> colsty.cpp:115</div></div>
 <div class="ttc" id="anamespaceosm_html_a5c3de8caf875adb236937ea7f60f74b0"><div class="ttname"><a href="namespaceosm.html#a5c3de8caf875adb236937ea7f60f74b0">osm::sty</a></div><div class="ttdeci">const std::unordered_map&lt; std::string, std::string &gt; sty</div><div class="ttdoc">It is used to store the styles.</div><div class="ttdef"><b>Definition:</b> colsty.cpp:93</div></div>
 <div class="ttc" id="anamespaceosm_html_a9cd60a9e70771e9ba62cd5e2860695ff"><div class="ttname"><a href="namespaceosm.html#a9cd60a9e70771e9ba62cd5e2860695ff">osm::col</a></div><div class="ttdeci">const std::unordered_map&lt; std::string, std::string &gt; col</div><div class="ttdoc">It is used to store the colors. Note: &quot;bg&quot; is the prefix of the background color features and &quot;bd&quot; is...</div><div class="ttdef"><b>Definition:</b> colsty.cpp:36</div></div>

diff --git a/docs/cursor_8hpp_source.html b/docs/cursor_8hpp_source.html
@@ -111,7 +111,7 @@ $(function() {
 <div class="line"><a name="l00045"></a><span class="lineno">   45</span>&#160; }</div>
 <div class="line"><a name="l00046"></a><span class="lineno">   46</span>&#160; </div>
 <div class="line"><a name="l00047"></a><span class="lineno">   47</span>&#160;<span class="preprocessor">#endif</span></div>
-<div class="ttc" id="anamespaceosm_html"><div class="ttname"><a href="namespaceosm.html">osm</a></div><div class="ttdef"><b>Definition:</b> canvas.cpp:29</div></div>
+<div class="ttc" id="anamespaceosm_html"><div class="ttname"><a href="namespaceosm.html">osm</a></div><div class="ttdef"><b>Definition:</b> canvas.cpp:28</div></div>
 <div class="ttc" id="anamespaceosm_html_a66d950ed54e1eee09f6d137e1eeaf9d9"><div class="ttname"><a href="namespaceosm.html#a66d950ed54e1eee09f6d137e1eeaf9d9">osm::go_to</a></div><div class="ttdeci">const std::string go_to(int x, int y)</div><div class="ttdoc">It takes two integers as arguments which are the x and y position of the cursor in the screen and ret...</div><div class="ttdef"><b>Definition:</b> cursor.cpp:128</div></div>
 <div class="ttc" id="anamespaceosm_html_a804b4879b54d32f2c23a0d6217f4043e"><div class="ttname"><a href="namespaceosm.html#a804b4879b54d32f2c23a0d6217f4043e">osm::tcs</a></div><div class="ttdeci">const std::unordered_map&lt; std::string, std::string &gt; tcs</div><div class="ttdoc">It is used to store the terminal control sequences.</div><div class="ttdef"><b>Definition:</b> cursor.cpp:58</div></div>
 <div class="ttc" id="anamespaceosm_html_a81c6ab03be9043632d38d68a0c87336d"><div class="ttname"><a href="namespaceosm.html#a81c6ab03be9043632d38d68a0c87336d">osm::string_pair_map</a></div><div class="ttdeci">std::unordered_map&lt; std::string, std::pair&lt; std::string, std::string &gt; &gt; string_pair_map</div><div class="ttdef"><b>Definition:</b> cursor.hpp:32</div></div>

diff --git a/docs/options_8hpp_source.html b/docs/options_8hpp_source.html
@@ -138,7 +138,7 @@ $(function() {
 <div class="line"><a name="l00091"></a><span class="lineno">   91</span>&#160; }</div>
 <div class="line"><a name="l00092"></a><span class="lineno">   92</span>&#160; </div>
 <div class="line"><a name="l00093"></a><span class="lineno">   93</span>&#160;<span class="preprocessor">#endif</span></div>
-<div class="ttc" id="anamespaceosm_html"><div class="ttname"><a href="namespaceosm.html">osm</a></div><div class="ttdef"><b>Definition:</b> canvas.cpp:29</div></div>
+<div class="ttc" id="anamespaceosm_html"><div class="ttname"><a href="namespaceosm.html">osm</a></div><div class="ttdef"><b>Definition:</b> canvas.cpp:28</div></div>
 <div class="ttc" id="anamespaceosm_html_a0825eb925269f7eabcf04c85af12c144"><div class="ttname"><a href="namespaceosm.html#a0825eb925269f7eabcf04c85af12c144">osm::disableUNICODE</a></div><div class="ttdeci">void disableUNICODE()</div><div class="ttdoc">Function used to disable UNICODE characters (used for Windows only).</div><div class="ttdef"><b>Definition:</b> windows.cpp:137</div></div>
 <div class="ttc" id="anamespaceosm_html_a0f45bbea2f7a0b9c6229c797dc4f7c59"><div class="ttname"><a href="namespaceosm.html#a0f45bbea2f7a0b9c6229c797dc4f7c59">osm::enableANSI</a></div><div class="ttdeci">void enableANSI()</div><div class="ttdoc">Function used to enable ANSI escape sequences on Windows.</div><div class="ttdef"><b>Definition:</b> windows.cpp:61</div></div>
 <div class="ttc" id="anamespaceosm_html_a4cefaf71da9e5b1e2746189dee3cd24c"><div class="ttname"><a href="namespaceosm.html#a4cefaf71da9e5b1e2746189dee3cd24c">osm::rst</a></div><div class="ttdeci">const std::unordered_map&lt; std::string, std::string &gt; rst</div><div class="ttdoc">It is used to store the reset features commands.</div><div class="ttdef"><b>Definition:</b> colsty.cpp:115</div></div>

diff --git a/docs/output__redirector_8hpp_source.html b/docs/output__redirector_8hpp_source.html
@@ -216,7 +216,7 @@ $(function() {
 <div class="ttc" id="aclassosm_1_1OutputRedirector_html_acc59eaf756a9b647bc6e863e1dbe70fa"><div class="ttname"><a href="classosm_1_1OutputRedirector.html#acc59eaf756a9b647bc6e863e1dbe70fa">osm::OutputRedirector::begin</a></div><div class="ttdeci">void begin()</div><div class="ttdoc">Backs up the stdout buffer and begins redirecting output to a file.</div><div class="ttdef"><b>Definition:</b> output_redirector.cpp:136</div></div>
 <div class="ttc" id="aclassosm_1_1OutputRedirector_html_accb08c8ad90c522c27c881fa76ba75c4"><div class="ttname"><a href="classosm_1_1OutputRedirector.html#accb08c8ad90c522c27c881fa76ba75c4">osm::OutputRedirector::touch</a></div><div class="ttdeci">void touch()</div><div class="ttdoc">Opens the file, if present. Otherwise, creates the file.</div><div class="ttdef"><b>Definition:</b> output_redirector.cpp:197</div></div>
 <div class="ttc" id="aclassosm_1_1OutputRedirector_html_ae80cebe519c0f49412e6739ca04f20f6"><div class="ttname"><a href="classosm_1_1OutputRedirector.html#ae80cebe519c0f49412e6739ca04f20f6">osm::OutputRedirector::end</a></div><div class="ttdeci">void end()</div><div class="ttdoc">Returns output to stdout and flushes our buffer.</div><div class="ttdef"><b>Definition:</b> output_redirector.cpp:155</div></div>
-<div class="ttc" id="anamespaceosm_html"><div class="ttname"><a href="namespaceosm.html">osm</a></div><div class="ttdef"><b>Definition:</b> canvas.cpp:29</div></div>
+<div class="ttc" id="anamespaceosm_html"><div class="ttname"><a href="namespaceosm.html">osm</a></div><div class="ttdef"><b>Definition:</b> canvas.cpp:28</div></div>
 </div><!-- fragment --></div><!-- contents -->
 <!-- start footer part -->
 <hr class="footer"/><address class="footer"><small>

diff --git a/docs/windows_8hpp_source.html b/docs/windows_8hpp_source.html
@@ -105,7 +105,7 @@ $(function() {
 <div class="line"><a name="l00039"></a><span class="lineno">   39</span>&#160; }</div>
 <div class="line"><a name="l00040"></a><span class="lineno">   40</span>&#160; </div>
 <div class="line"><a name="l00041"></a><span class="lineno">   41</span>&#160;<span class="preprocessor">#endif</span></div>
-<div class="ttc" id="anamespaceosm_html"><div class="ttname"><a href="namespaceosm.html">osm</a></div><div class="ttdef"><b>Definition:</b> canvas.cpp:29</div></div>
+<div class="ttc" id="anamespaceosm_html"><div class="ttname"><a href="namespaceosm.html">osm</a></div><div class="ttdef"><b>Definition:</b> canvas.cpp:28</div></div>
 <div class="ttc" id="anamespaceosm_html_a0825eb925269f7eabcf04c85af12c144"><div class="ttname"><a href="namespaceosm.html#a0825eb925269f7eabcf04c85af12c144">osm::disableUNICODE</a></div><div class="ttdeci">void disableUNICODE()</div><div class="ttdoc">Function used to disable UNICODE characters (used for Windows only).</div><div class="ttdef"><b>Definition:</b> windows.cpp:137</div></div>
 <div class="ttc" id="anamespaceosm_html_a0f45bbea2f7a0b9c6229c797dc4f7c59"><div class="ttname"><a href="namespaceosm.html#a0f45bbea2f7a0b9c6229c797dc4f7c59">osm::enableANSI</a></div><div class="ttdeci">void enableANSI()</div><div class="ttdoc">Function used to enable ANSI escape sequences on Windows.</div><div class="ttdef"><b>Definition:</b> windows.cpp:61</div></div>
 <div class="ttc" id="anamespaceosm_html_a8f5f91647fa15a927b2ea4846d659c6d"><div class="ttname"><a href="namespaceosm.html#a8f5f91647fa15a927b2ea4846d659c6d">osm::old_chcp</a></div><div class="ttdeci">std::string old_chcp</div><div class="ttdef"><b>Definition:</b> windows.cpp:50</div></div>

diff --git a/docs/common_8hpp_source.html b/docs/common_8hpp_source.html
@@ -98,7 +98,7 @@ $(function() {
 <div class="line"><a name="l00032"></a><span class="lineno">   32</span>&#160; }</div>
 <div class="line"><a name="l00033"></a><span class="lineno">   33</span>&#160; </div>
 <div class="line"><a name="l00034"></a><span class="lineno">   34</span>&#160;<span class="preprocessor">#endif</span></div>
-<div class="ttc" id="anamespaceosm_html"><div class="ttname"><a href="namespaceosm.html">osm</a></div><div class="ttdef"><b>Definition:</b> canvas.cpp:29</div></div>
+<div class="ttc" id="anamespaceosm_html"><div class="ttname"><a href="namespaceosm.html">osm</a></div><div class="ttdef"><b>Definition:</b> canvas.cpp:28</div></div>
 <div class="ttc" id="anamespaceosm_html_ae7a38e64cf69c6449e10cb4ec035192a"><div class="ttname"><a href="namespaceosm.html#ae7a38e64cf69c6449e10cb4ec035192a">osm::feat</a></div><div class="ttdeci">const std::string &amp; feat(const std::unordered_map&lt; std::string, std::string &gt; &amp;generic_map, const std::string &amp;feat_string)</div><div class="ttdoc">It takes an std::map object as the first argument and an std::string object (map key) as the second a...</div><div class="ttdef"><b>Definition:</b> common.cpp:40</div></div>
 </div><!-- fragment --></div><!-- contents -->
 <!-- start footer part -->
